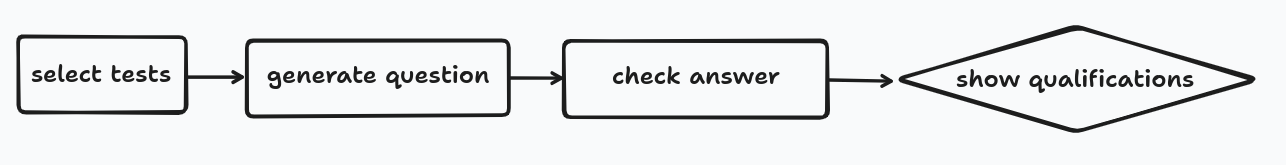
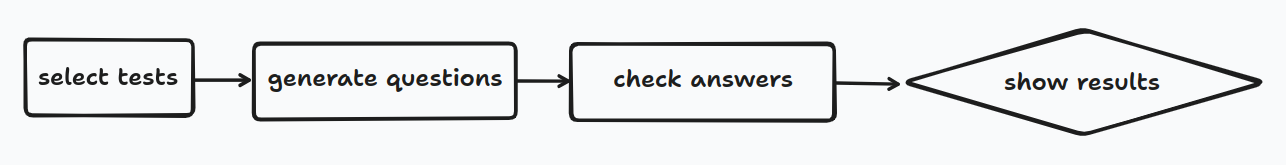
Add result generation

Changed region(s): [[0.0, 0.1515, 0.9953, 0.8182], [0.8709, 0.2424, 0.9642, 0.4545]]

diff --git a/main.py b/main.py
@@ -3,22 +3,24 @@ from app.infrastructure.console.console_interface import ConsoleInterface
 from app.application.select_tests import select_tests
 from app.application.generate_question import generate_question_random
 from app.application.check_answer import check_answer
-
+from app.application.show_results import show_results
 
 def main():
   question_repository = CSVQuestionRepository()
 
   user_interface = ConsoleInterface()
 
-  # User will be examined with tests specified in config.py
+  # user select tests from all available
   selected_tests = select_tests(question_repository, user_interface)
   for test in selected_tests:
-    # Generate questions in certain order
+    # Generate questions and show to user
     question_generator = generate_question_random(test, question_repository)
     for question in question_generator:
       # Wait user answer and check if valid
-      check_answer(question, user_interface)
+      check_answer(test, question, user_interface)
 
+  # show results to user
+  show_results(selected_tests, user_interface)
 
 if __name__ == '__main__':
   main()

diff --git a/app/application/check_answer.py b/app/application/check_answer.py
@@ -2,9 +2,10 @@ import sys
 
 from app.domain.user_interface import UserInterface
 from app.domain.question import Question
-
-def check_answer(question:Question, user_interface:UserInterface):
+from app.domain.test import Test
+def check_answer(test:Test, question:Question, user_interface:UserInterface):
   answer = user_interface.get_input(question)
+  test.increase_total_answers()
 
   # q -> terminate program
   if(answer == Question.EXIT):
@@ -12,9 +13,10 @@ def check_answer(question:Question, user_interface:UserInterface):
 
   # valid -> show valid feedback
   elif(answer == question.answer):
+    test.increase_valid_ansers()
     user_interface.show_valid_feedback()
 
   # invalid -> recursive call to process same question again
   else:
     user_interface.show_invalid_feedback()
-    check_answer(question, user_interface)
+    check_answer(test, question, user_interface)

diff --git a/app/domain/test.py b/app/domain/test.py
@@ -1,3 +1,17 @@
 class Test:
+
   def __init__(self, name):
     self.name = name
+    self.valid_answers = 0
+    self.total_answers = 0
+
+  def increase_total_answers(self):
+    self.total_answers += 1
+
+  def increase_valid_ansers(self):
+    self.valid_answers += 1
+
+  def calculate_result(self):
+    valid = str(self.valid_answers) + " / " + str(self.total_answers)
+    percentage = self.valid_answers / self.total_answers * 100 if self.total_answers > 0 else 0
+    return valid + " -> " + str(int(percentage)) + "% de aciertos"

diff --git a/app/infrastructure/console/console_interface.py b/app/infrastructure/console/console_interface.py
@@ -27,3 +27,8 @@ class ConsoleInterface(UserInterface):
         continue
       selected_tests.append(tests[int(index) - 1])
     return selected_tests
+
+  def show_results(self, tests: List[Test]):
+    print("\nTest results:")
+    for test in tests:
+      print(test.name + ": " + test.calculate_result())

diff --git a/app/application/show_results.py b/app/application/show_results.py
@@ -1,0 +1,6 @@
+from app.domain.user_interface import UserInterface
+from app.domain.test import Test
+from typing import List
+
+def show_results(tests:List[Test],user_interface:UserInterface):
+  user_interface.show_results(tests)

diff --git a/app/domain/user_interface.py b/app/domain/user_interface.py
@@ -17,3 +17,6 @@ class UserInterface:
 
   def select_tests(self, tests: List[Test]) -> List[Test]:
     pass
+
+  def show_qualifications(self, tests: List[Test]):
+    pass
